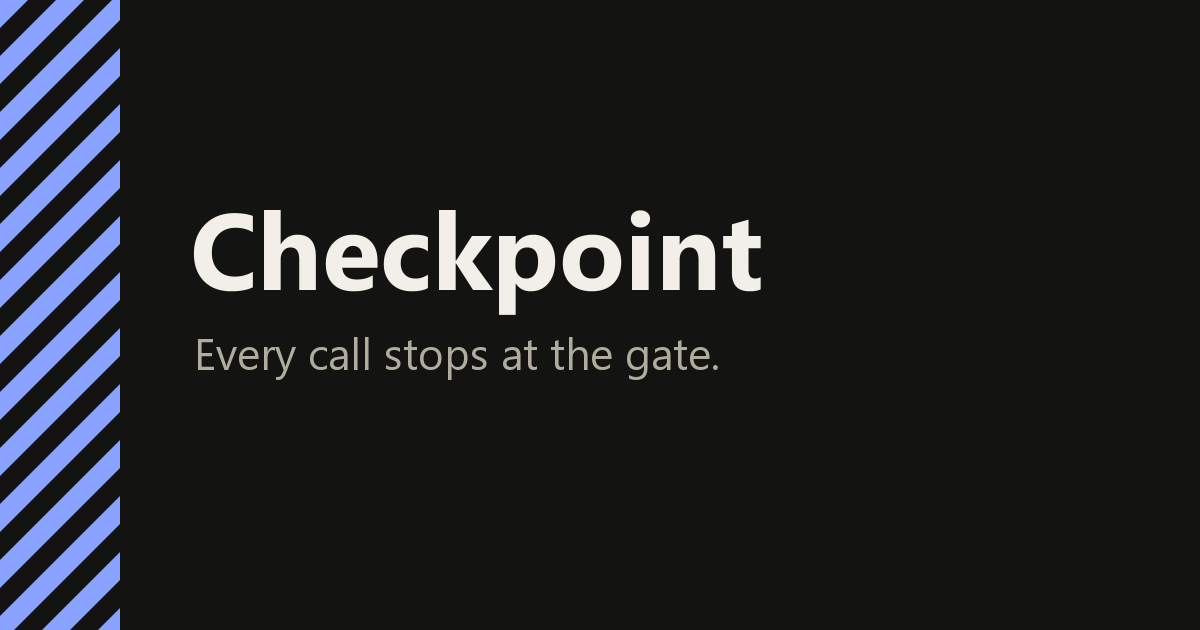
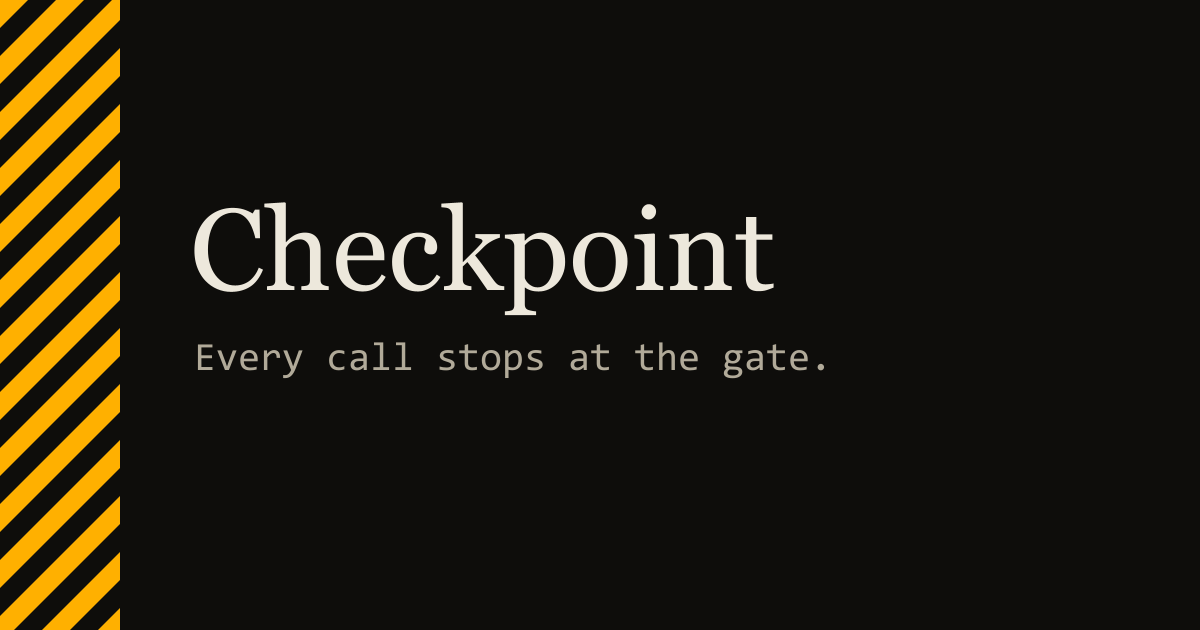
Update fonts, first paint and social image

Changed region(s): [[0.0, 0.0, 0.1233, 1.0], [0.1542, 0.3016, 0.6475, 0.5127], [0.1542, 0.5429, 0.6783, 0.6032]]

diff --git a/index.html b/index.html
@@ -7,8 +7,8 @@
     <meta name="description" content="Live dashboard for a Logging Proxy in front of three microservices: latency, success rate, errors and every intercepted call." />
     <link rel="canonical" href="https://proxy-checkpoint.vercel.app/" />
     <link rel="icon" type="image/svg+xml" href="/favicon.svg" />
-    <meta name="theme-color" content="#f4f2ec" media="(prefers-color-scheme: light)" />
-    <meta name="theme-color" content="#131311" media="(prefers-color-scheme: dark)" />
+    <meta name="theme-color" content="#f4f0e6" media="(prefers-color-scheme: light)" />
+    <meta name="theme-color" content="#0e0d0b" media="(prefers-color-scheme: dark)" />
     <meta property="og:type" content="website" />
     <meta property="og:url" content="https://proxy-checkpoint.vercel.app/" />
     <meta property="og:title" content="Checkpoint | Proxy observability" />
@@ -20,7 +20,7 @@
     <meta name="twitter:image" content="https://proxy-checkpoint.vercel.app/og.png" />
     <link rel="preconnect" href="https://fonts.googleapis.com" />
     <link rel="preconnect" href="https://fonts.gstatic.com" crossorigin />
-    <link href="https://fonts.googleapis.com/css2?family=Bricolage+Grotesque:opsz,wght@12..96,700&family=IBM+Plex+Mono:wght@400;600&family=IBM+Plex+Sans:wght@400;600&display=swap" rel="stylesheet" />
+    <link href="https://fonts.googleapis.com/css2?family=Bricolage+Grotesque:opsz,wght@12..96,400;12..96,600&family=Instrument+Serif&family=Martian+Mono:wght@400;600&display=swap" rel="stylesheet" />
     <script>
       // Applies the theme before the first paint to avoid a flash
       (function () {
@@ -32,10 +32,10 @@
     </script>
     <style>
       /* First paint of the public text, replaced when React mounts */
-      html { background: #f4f2ec; color: #1d1c18; }
-      html[data-theme='dark'] { background: #131311; color: #f1efe7; }
-      .shell { max-width: 1216px; margin: 0 auto; padding: 88px 16px 0; font-family: 'IBM Plex Sans', 'Segoe UI', sans-serif; }
-      .shell h1 { margin: 0; font-size: 1.75rem; line-height: 1.2; }
+      html { background: #f4f0e6; color: #1c1a15; }
+      html[data-theme='dark'] { background: #0e0d0b; color: #ede8dc; }
+      .shell { max-width: 1216px; margin: 0 auto; padding: 132px 16px 0; font-family: 'Bricolage Grotesque', 'Segoe UI', sans-serif; }
+      .shell h1 { margin: 0; font-family: 'Instrument Serif', Georgia, serif; font-size: clamp(2.5rem, 7vw, 4.5rem); font-weight: 400; line-height: 1.05; letter-spacing: -0.02em; }
       .shell p { max-width: 60ch; margin: 8px 0 0; line-height: 1.5; }
     </style>
   </head>
